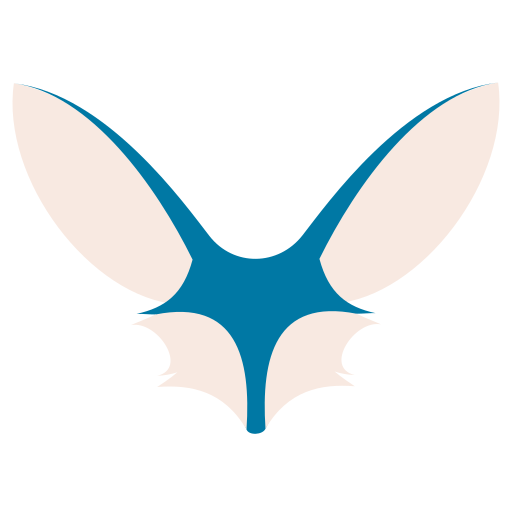
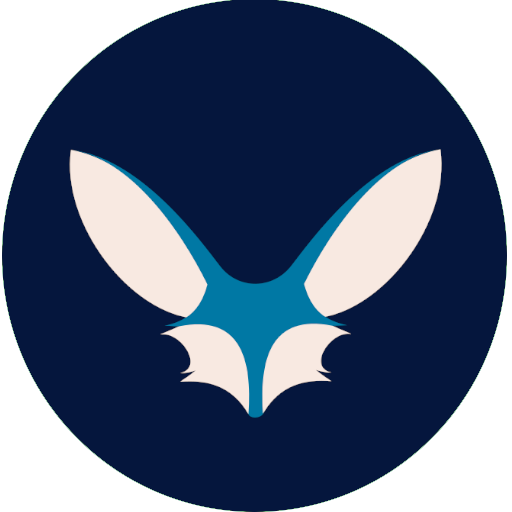
Group gallery links into dropdown
- Updated prerequisites to .NET 5 RC 1
- Updated app icon

diff --git a/src/Tonytins.Web/wwwroot/css/app.css b/src/Tonytins.Web/wwwroot/css/app.css
@@ -45,43 +45,44 @@ app {
     align-items: center;
 }
 
-.dark-top-row {
-    background-color: #343A40;
-}
-
 .main {
     flex: 1;
 }
 
-    .main .media-display {
-        overflow: auto;
-        text-align: center;
-        position: relative;
+.sidebar .dropdown-menu {
+    background-color: #05163D;
+    border-color: black;
+}
+
+.main .media-display {
+    overflow: auto;
+    text-align: center;
+    position: relative;
+}
+
+.main .submission {
+    max-width: calc(100vh - 35px - 109px);
+    height: auto;
+}
+
+.main .top-row {
+    background-color: #f7f7f7;
+    border-bottom: 1px solid #d6d5d5;
+    justify-content: flex-end;
+}
+
+    .main .top-row > a, .main .top-row .btn-link {
+        white-space: nowrap;
+        margin-left: 1.5rem;
     }
 
-    .main .submission {
-        max-width: calc(100vh - 35px - 109px);
-        height: auto;
+    .main .top-row a:first-child {
+        overflow: hidden;
+        text-overflow: ellipsis;
     }
-
-    .main .top-row {
-        background-color: #f7f7f7;
-        border-bottom: 1px solid #d6d5d5;
-        justify-content: flex-end;
-    }
-
-        .main .top-row > a, .main .top-row .btn-link {
-            white-space: nowrap;
-            margin-left: 1.5rem;
-        }
-
-        .main .top-row a:first-child {
-            overflow: hidden;
-            text-overflow: ellipsis;
-        }
 
 .sidebar {
-    background-image: linear-gradient(180deg, rgb(5, 39, 103) 0%, #3a0647 70%);
+    background-color: #05163D;
 }
 
     .sidebar .top-row {

diff --git a/README.md b/README.md
@@ -16,7 +16,7 @@ This is my personal website built using Blazor: WebAssembly. You're welcome to c
 
 ### Prerequisites
 
-* .NET Core 3.1 SDK
+* .NET 5 RC1 or later
 
 ## License
 
